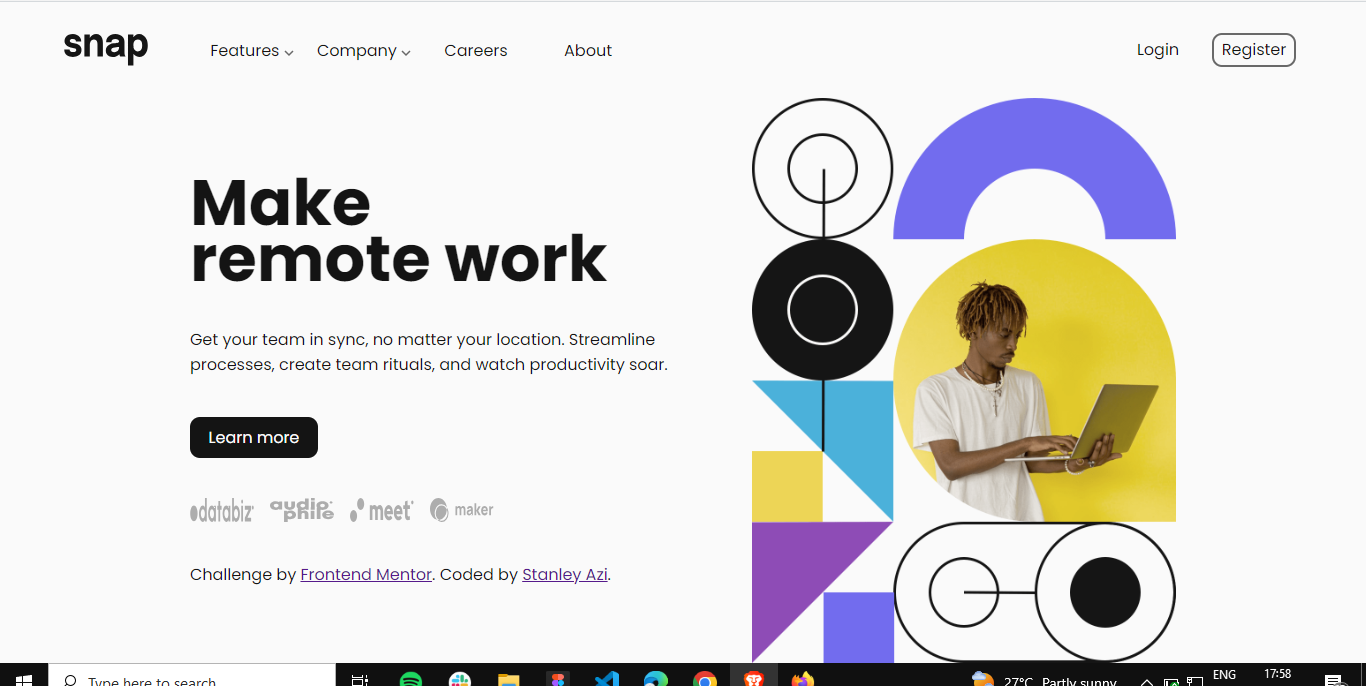
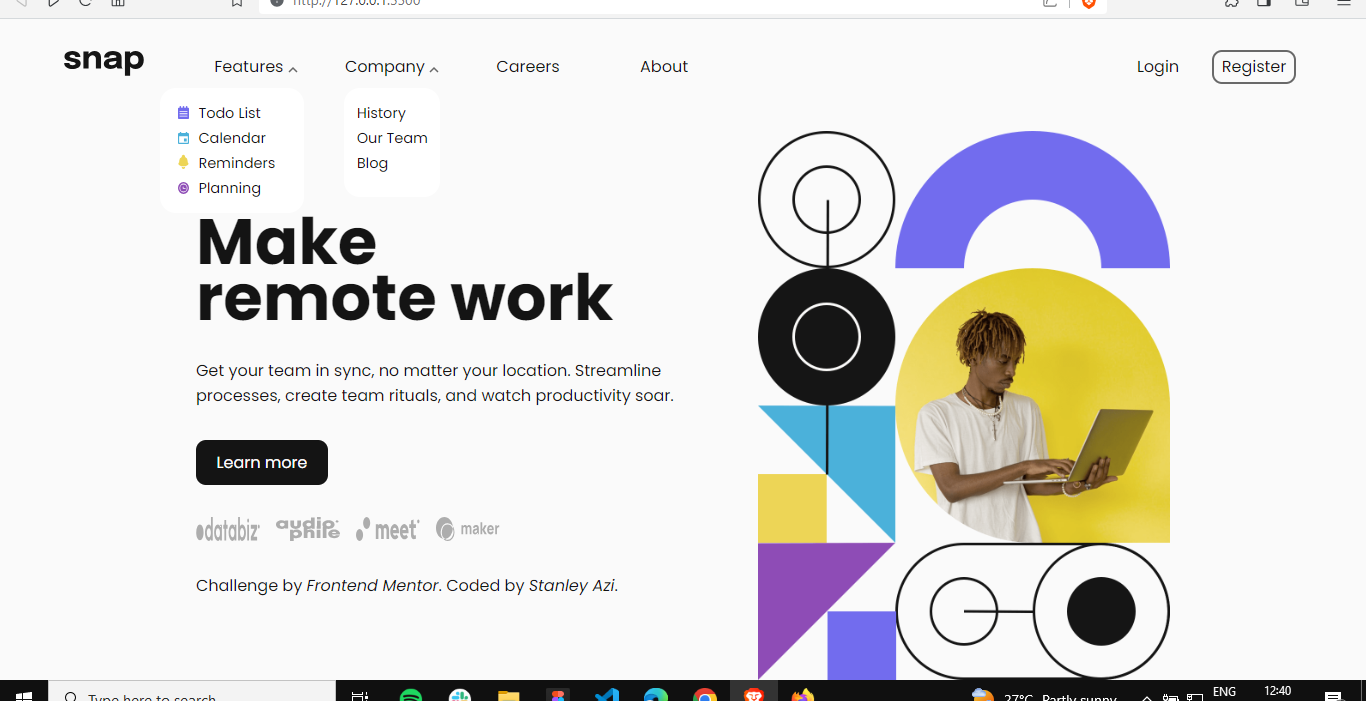
new commit

diff --git a/style.css b/style.css
@@ -7,7 +7,6 @@
 body {
     color: hsl(0, 0%, 0%);
     background-color: hsl(0, 0%, 98%);
-    font-family: Poppins;
     width: 100vw;
     height: 100vh;
 }
@@ -21,7 +20,6 @@ header {
     bottom: 2rem;
     align-items: center;
     justify-content: space-between;
-
 }
 
 header div {
@@ -30,10 +28,15 @@ header div {
     padding-left: 4rem;
 }
 
+.logo {
+    width: 5rem;
+    height: inherit;
+}
+
 header div nav {
     display: inherit;
     align-items: center;
-    justify-content: center;
+    justify-content: flex-start;
 }
 
 header div nav a {
@@ -52,21 +55,114 @@ header div nav a:hover {
     font-weight: 600;
 }
 
-header ul {
+header nav .main-ul {
+    display: inherit;
+    list-style: none;
+    gap: 0.5rem;
+    text-align: center;
+}
+
+header nav .main-ul li {
+    width: 8rem;
+}
+
+/*first drop-down (features)*/
+.nav-features .arrow-down-1 {
+    display: none;
+}
+
+.nav-company .arrow-up-1 {
+    display: inline-block;
+}
+
+.nav-features ul {
+    display: flex;
+    flex-direction: column;
+    justify-content: flex-start;
+    align-items: center;
+    background-color: #ffff;
+    position: absolute;
+    top: 2.3rem;
+    left: 10rem;
+    width: 9rem;
+    height: 7rem;
+    z-index: 3;
+    padding-top: 0.8rem;
+    border-radius: 1rem;
+}
+
+.nav-features ul li {
+    list-style: none;
+    text-align: start;
+}
+
+.nav-features ul li a img {
+    position: relative;
+    right: 0.6rem;
+    margin-left: 0.7rem;
+    width: 0.7rem;
+}
+
+.nav-features ul li a {
+    font-size: 0.9rem;
+    padding-right: 0.8rem;
+}
+/*end*/
+
+/*second drop-down (company)*/
+.nav-company .arrow-down-2 {
+    display: none;
+}
+
+.nav-company .arrow-up-2 {
+    display: inline-block;
+}
+
+.nav-company ul {
+    display: flex;
+    flex-direction: column;
+    justify-content: flex-start;
+    align-items: center;
+    background-color: #ffff;
+    position: absolute;
+    top: 2.3rem;
+    left: 21.5rem;
+    width: 6rem;
+    height: 6rem;
+    z-index: 3;
+    padding-top: 0.8rem;
+    border-radius: 1rem;
+}
+
+.nav-company ul li {
+    position: relative;
+    left: 1.3rem;
+    list-style: none;
+    text-align: start;
+
+}
+
+.nav-company ul li a {
+    font-size: 0.9rem;
+    padding-right: 0.8rem;
+}
+/*end*/
+
+header .second-ul {
     display: inherit;
     align-items: center;
     justify-items: flex-end;
     padding-right: 4rem;
 }
 
-header ul li {
+header .second-ul li {
     list-style: none;
     width: 6rem;
     gap: 0.5rem;
     text-align: center;
 }
 
-header ul li a {
+header .second-ul li a {
     color: hsl(0, 0%, 8%);
     font-size: 1rem;
     font-weight: 400;
@@ -74,10 +170,10 @@ header ul li a {
     padding: 0.2rem 0.5rem;
 }
 
-header ul li a:hover {
+header .second-ul li a:hover {
     color: hsl(0, 0%, 0%);
     font-weight: 600;
-}
+} 
 
 header ul .register-btn {
     border: 2px solid hsl(0, 0%, 41%);
@@ -94,17 +190,17 @@ section {
     color: hsl(0, 0%, 8%);
     font-size: 1rem;
     font-weight: 400;
-    top: 4rem;
+    top: 5rem;
     gap: 1rem;
     width: 100%;
-    height: calc(100vh - 6rem);
+    height: calc(100vh - 7rem);
     justify-content: center;
 }
 
 section div {
     display: flex;
     flex-direction: column;
-    gap: 2.5rem;
+    gap: 2rem;
     width: 40%;
     justify-content: center;
 }
@@ -122,6 +218,14 @@ section div .action-btn {
     text-align: center;
     width: 7rem;
     padding: 0.5rem;
+    border: 2px solid hsl(0, 0%, 8%);
+    border-radius: 10px;
+}
+
+section div .action-btn:hover {
+    color: hsl(0, 0%, 8%);
+    background-color: hsl(0, 0%, 98%);
+    border: 2px solid hsl(0, 0%, 41%);
     border-radius: 10px;
 }
 
@@ -136,4 +240,17 @@ section div .clients {
 section div .clients img {
     width: 4rem;
     height: 1.5rem;
+}
+
+.attribution {
+    color: hsl(0, 0%, 8%);
+    font-size: 1rem;
+    font-weight: 400;
+    text-decoration: none;
+}
+
+.attribution a {
+    color: hsl(0, 0%, 8%);
+    font-style: italic;
+    text-decoration: none;
 }

diff --git a/index.html b/index.html
@@ -12,17 +12,37 @@
 <body>
     <header>
         <div>
-            <img src="images/logo.svg" alt="logo">
+            <a href="#"><img src="images/logo.svg" alt="logo" class="logo"></a>
       
             <nav>
-                <a href="#">Features <img src="images/icon-arrow-down.svg" alt="icon-arrow-down"></a>
-                <a href="#">Company <img src="images/icon-arrow-down.svg" alt="icon-arrow-down"></a>
-                <a href="#">Careers</a>
-                <a href="#">About</a>
+                <ul class="main-ul">
+                    <li class="nav-features">
+                        <a href="#">Features <img src="images/icon-arrow-up.svg" alt="icon-arrow-up" class="arrow-up-1"><img src="images/icon-arrow-down.svg" alt="icon-arrow-down" class="arrow-down-1"></a>
+                        
+                        <ul id="features-list">
+                            <li><a href="#"><img src="images/icon-todo.svg" alt="todo-list-icon">Todo List</a></li>
+                            <li><a href="#"><img src="images/icon-calendar.svg" alt="calendar-icon">Calendar</a></li>
+                            <li><a href="#"><img src="images/icon-reminders.svg" alt="remindar-icon">Reminders</a></li>
+                            <li><a href="#"><img src="images/icon-planning.svg" alt="planning-icon">Planning</a></li>
+                        </ul>
+                    </li>
+                    <li class="nav-company">
+                        <a href="#">Company <img src="images/icon-arrow-up.svg" alt="icon-arrow-up" class="arrow-up-2"><img src="images/icon-arrow-down.svg" alt="icon-arrow-down" class="arrow-down-2"></a>
+                        
+                        <ul id="company-list">
+                            <li><a href="#">History</a></li>
+                            <li><a href="#">Our Team</a></li>
+                            <li><a href="#">Blog</a></li>
+                        </ul>
+                    </li>
+                    <li><a href="#">Careers</a></li>
+                    <li><a href="#">About</a></li>
+                </ul>
+        
             </nav>        
         </div>
 
-        <ul>
+        <ul class="second-ul">
             <li><a href="#">Login</a></li>
             <li><a href="#"  class="register-btn">Register</a></li>
         </ul>

diff --git a/script.js b/script.js
@@ -1,0 +1,10 @@
+const features = document.querySelector(".nav-features");
+const company = document.querySelector(".nav-company");
+
+const featuresArrowUp = document.querySelector(".arrow-up-1");
+const featuresArrowDown = document.querySelector(".arrow-down-1");
+const companyArrowUp = document.querySelector(".arrow-up-2");
+const companyArrowDown = document.querySelector(".arrow-down-2");
+
+const featuresList = document.querySelector("features-list");
+const companyList = document.querySelector("company-list");
